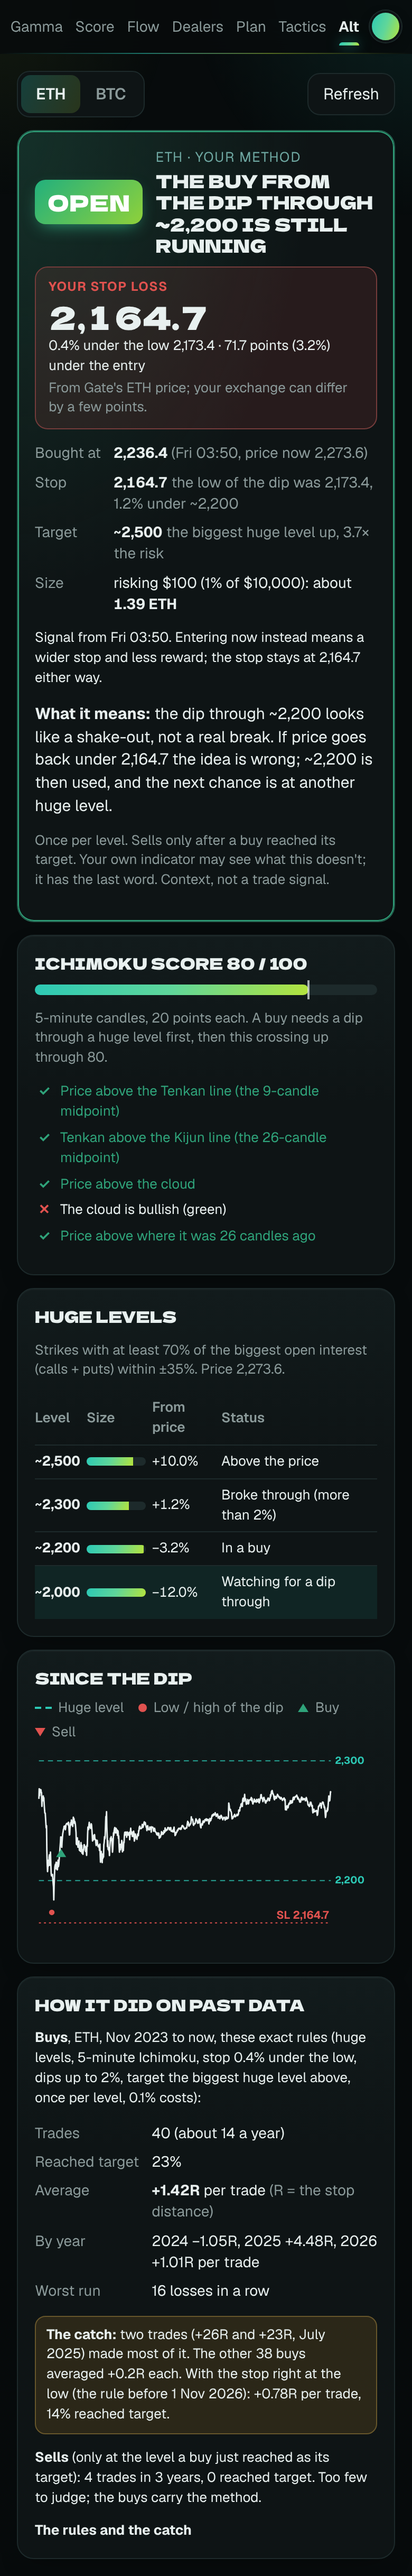
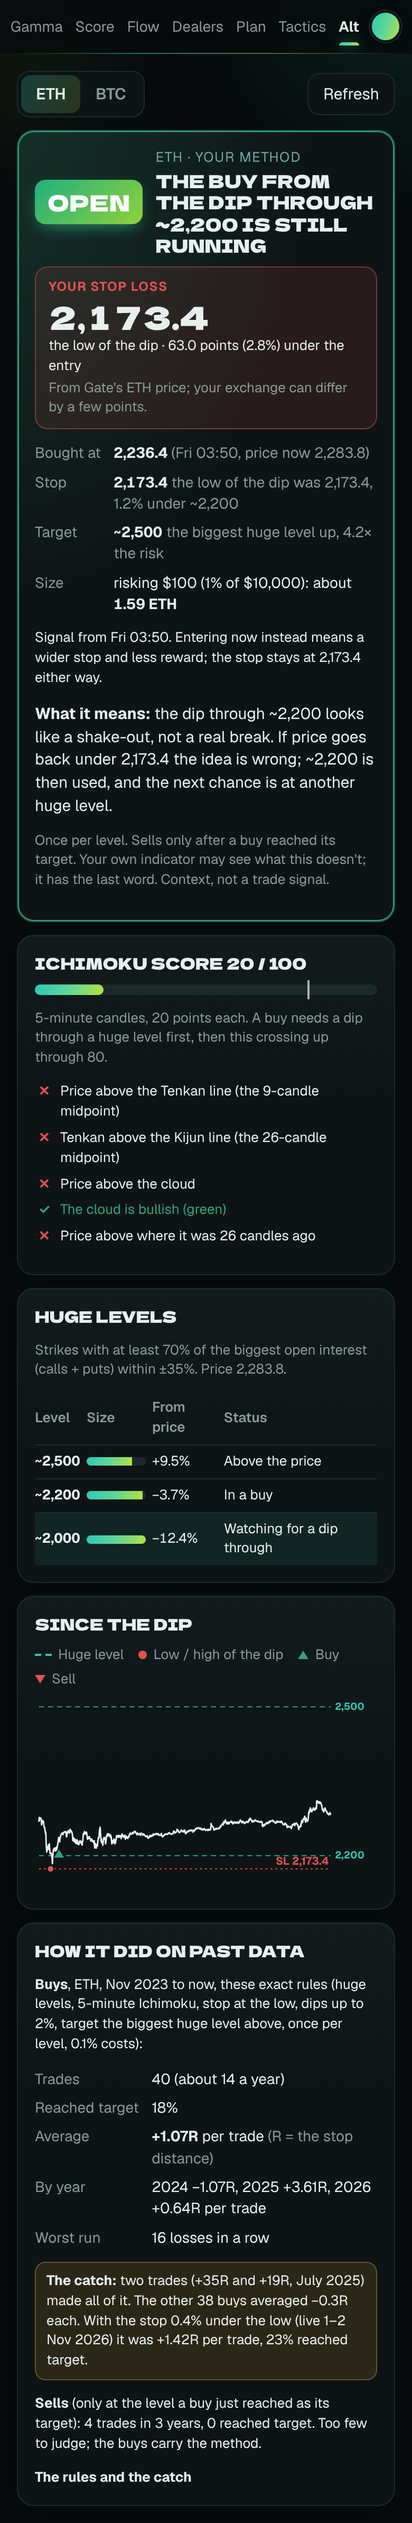
Alt Tactics: stop back at the low (owner's choice)
stopBufferPct 0: the stop is the lowest price of the dip again, worded "at
the low". Dips up to 2% stay. Results card updated (40 buys, 18% reached
target, +1.07R).

Claude-Session: https://claude.ai/code/session_012YFnXFppirLgbugNXbNf7H

diff --git a/tools/alt-tactics/view.js b/tools/alt-tactics/view.js
@@ -71,11 +71,15 @@ export function mount(el) {
   // The stop loss as a number to type into the order, worked out from live prices:
   // CFG.stopBufferPct under the low (buys) / over the high (sells). from = the entry,
   // or the price now while a setup is still waiting.
+  // Where the stop goes, in words: "at the low" or "0.4% under the low".
+  function slWhere(buy) {
+    return CFG.stopBufferPct > 0 ? CFG.stopBufferPct + '% ' + (buy ? 'under the low' : 'over the high') : (buy ? 'at the low' : 'at the high');
+  }
   function stopBox(stop, ext, buy, from, fromWord, note) {
     const dist = Math.abs(from - stop);
     return '<div class="al-sl"><div class="label">' + (note ? 'Stop loss so far' : 'Your stop loss') + '</div>' +
       '<div class="al-sl-num num">' + num(stop) + '</div>' +
-      '<div class="small">' + CFG.stopBufferPct + '% ' + (buy ? 'under the low ' : 'over the high ') + num(ext) + ' · ' +
+      '<div class="small">' + (CFG.stopBufferPct > 0 ? slWhere(buy) + ' ' + num(ext) : 'the ' + (buy ? 'low' : 'high') + ' of the ' + (buy ? 'dip' : 'spike')) + ' · ' +
         num(dist) + ' points (' + (dist / from * 100).toFixed(1) + '%) ' + (buy ? 'under ' : 'over ') + fromWord + '</div>' +
       (note ? '<div class="small muted">' + note + '</div>' : '') +
       '<div class="small muted">From Gate\'s ETH price; your exchange can differ by a few points.</div></div>';
@@ -116,7 +120,7 @@ export function mount(el) {
         '<dl class="pb-dl">' +
         '<dt>' + (buy ? 'Dipped' : 'Spiked') + '</dt><dd>' + hhmm(Math.max(w.t0, w.win ? w.win.at : 0)) + ', ' + (buy ? 'low' : 'high') + ' so far <b class="num">' + num(w.ext) + '</b> <span class="muted">(' + w.depth.toFixed(1) + '% ' + (buy ? 'under' : 'over') + ', a real break past ' + CFG.maxDepthPct + '%)</span></dd>' +
         '<dt>Waiting for</dt><dd>the ' + CFG.candleMinutes + '-minute Ichimoku score to ' + (buy ? 'reach ' + CFG.scoreBuy : 'drop to ' + CFG.scoreSell) + ' <span class="muted">(now ' + (now == null ? '–' : now) + ')</span></dd>' +
-        '<dt>Then</dt><dd>' + (buy ? 'buy, stop ' + CFG.stopBufferPct + '% under the low' : 'sell, stop ' + CFG.stopBufferPct + '% over the high') + ', target ' + (w.target ? px(w.target) : '<span class="muted">no huge level ' + (buy ? 'above' : 'below') + '</span>') + '</dd></dl>' +
+        '<dt>Then</dt><dd>' + (buy ? 'buy, stop ' + slWhere(true) : 'sell, stop ' + slWhere(false)) + ', target ' + (w.target ? px(w.target) : '<span class="muted">no huge level ' + (buy ? 'above' : 'below') + '</span>') + '</dd></dl>' +
         (buy ? '' : whyHere(w.win)) + (buy ? '' : unproven) +
         '<p class="verdict-action"><b>What it means:</b> the setup is live. Don\'t ' + (buy ? 'buy' : 'sell') + ' yet: the ' + (buy ? 'low can still go lower until buyers' : 'high can still go higher until sellers') + ' take over.</p>';
     } else {
@@ -225,23 +229,23 @@ export function mount(el) {
   function backtestHtml() {
     const b = CFG.backtest;
     return '<section class="card"><h3>How it did on past data</h3>' +
-      '<p class="small"><b>Buys</b>, ETH, ' + b.from + ' to now, these exact rules (huge levels, ' + CFG.candleMinutes + '-minute Ichimoku, stop ' + CFG.stopBufferPct + '% under the low, dips up to ' + CFG.maxDepthPct + '%, target the biggest huge level above, once per level, 0.1% costs):</p>' +
+      '<p class="small"><b>Buys</b>, ETH, ' + b.from + ' to now, these exact rules (huge levels, ' + CFG.candleMinutes + '-minute Ichimoku, stop ' + slWhere(true) + ', dips up to ' + CFG.maxDepthPct + '%, target the biggest huge level above, once per level, 0.1% costs):</p>' +
       '<dl class="pb-dl"><dt>Trades</dt><dd>' + b.trades + ' (about 14 a year)</dd>' +
       '<dt>Reached target</dt><dd>' + b.hitPct + '%</dd>' +
       '<dt>Average</dt><dd><b>+' + b.avgR.toFixed(2) + 'R</b> per trade <span class="muted">(R = the stop distance)</span></dd>' +
       '<dt>By year</dt><dd>' + esc(b.years) + '</dd>' +
       '<dt>Worst run</dt><dd>' + b.worstRun + ' losses in a row</dd></dl>' +
-      '<p class="small al-warn"><b>The catch:</b> two trades (' + esc(b.best2) + ') made most of it. The other ' + (b.trades - 2) + ' buys averaged ' +
+      '<p class="small al-warn"><b>The catch:</b> two trades (' + esc(b.best2) + ') made ' + (b.without2 < 0 ? 'all' : 'most') + ' of it. The other ' + (b.trades - 2) + ' buys averaged ' +
         (b.without2 >= 0 ? '+' : '−') + Math.abs(b.without2).toFixed(1) + 'R each. ' + esc(b.before) + '</p>' +
       '<p class="small"><b>Sells</b> (only at the level a buy just reached as its target): ' + b.sell.trades + ' trades in 3 years, ' + b.sell.won +
         ' reached target. Too few to judge; the buys carry the method.</p>' +
       '<details class="tc-fold"><summary class="small"><b>The rules and the catch</b></summary><ol class="tc-steps small">' +
         '<li>Levels: only the huge strikes, at least ' + Math.round(CFG.hugeShare * 100) + '% of the biggest open interest.</li>' +
         '<li>Price was above a level and trades below it (spikes count).</li>' +
-        '<li>Stop: ' + CFG.stopBufferPct + '% under the lowest price since the dip, so a quick wick just under the low doesn\'t stop you out. More than ' + CFG.maxDepthPct + '% under the level is a real breakdown: no trade.</li>' +
+        '<li>Stop: ' + (CFG.stopBufferPct > 0 ? CFG.stopBufferPct + '% under the lowest price since the dip, so a quick wick just under the low doesn\'t stop you out' : 'the lowest price since the dip') + '. More than ' + CFG.maxDepthPct + '% under the level is a real breakdown: no trade.</li>' +
         '<li>Buy when the ' + CFG.candleMinutes + '-minute Ichimoku score crosses up through ' + CFG.scoreBuy + ' (stand-in for your indicator).</li>' +
         '<li>Target: the biggest huge level above (most open contracts), not just the nearest. One trade per level; a used level comes back after price crosses another one.</li>' +
-        '<li>Sells only after a buy reached its target, at that level, within ' + CFG.afterWinHours + ' h: a spike over it, stop ' + CFG.stopBufferPct + '% over the high, score down through ' + CFG.scoreSell +
+        '<li>Sells only after a buy reached its target, at that level, within ' + CFG.afterWinHours + ' h: a spike over it, stop ' + slWhere(false) + ', score down through ' + CFG.scoreSell +
           ', target the biggest huge level below. When a sell reaches its target, that level is open for a buy again.</li>' +
         '<li>The catch: few trades, and the 10 best make most of the profit. Levels came from monthly snapshots, so yours may differ. Stops can fill worse in fast markets.</li>' +
       '</ol></details></section>';

diff --git a/tools/alt-tactics/config.js b/tools/alt-tactics/config.js
@@ -16,7 +16,7 @@ export const ALT_CONFIG = {
   // low, and turns. More than maxDepthPct past the level = a real breakdown; no
   // confirmation within windowHours = the setup lapses.
   maxDepthPct: 2,           // was 3; 2 tested better (owner OK'd 1 Nov 2026)
-  stopBufferPct: 0.4,       // stop 0.4% past the low / high, not right at it (owner: "let's do it 0.4%")
+  stopBufferPct: 0,         // stop right at the low / high (owner 2 Nov 2026: "set our SL as normal ... +0%"; 0.4% was live 1–2 Nov)
   windowHours: 48,
 
   // Confirmation: the Ichimoku score on candleMinutes candles crosses up through scoreBuy.
@@ -35,10 +35,10 @@ export const ALT_CONFIG = {
 
   // Backtest summary shown on the tab (huge 70%, 5-min score, once per level, 0.1% costs).
   // From test/alt-backtest.mjs (the tab's own code), target = biggest huge level.
-  // Stop 0.4% under the low, dips up to 2% (test/results/alt-best-2026-11-01.txt).
-  backtest: { from: 'Nov 2023', trades: 40, hitPct: 23, avgR: 1.42, worstRun: 16,
-    years: '2024 −1.05R, 2025 +4.48R, 2026 +1.01R per trade',
-    best2: '+26R and +23R, July 2025', without2: 0.20, // the other 38 buys, R per trade
-    before: 'With the stop right at the low (the rule before 1 Nov 2026): +0.78R per trade, 14% reached target.',
+  // Stop at the low, dips up to 2% (node test/alt-backtest.mjs, LIST=biggest, 2 Nov 2026).
+  backtest: { from: 'Nov 2023', trades: 40, hitPct: 18, avgR: 1.07, worstRun: 16,
+    years: '2024 −1.07R, 2025 +3.61R, 2026 +0.64R per trade',
+    best2: '+35R and +19R, July 2025', without2: -0.30, // the other 38 buys, R per trade
+    before: 'With the stop 0.4% under the low (live 1–2 Nov 2026) it was +1.42R per trade, 23% reached target.',
     sell: { trades: 4, won: 0 } }, // sells after a buy hit its target: 4, all lost
 };

diff --git a/index.html b/index.html
@@ -12,7 +12,7 @@
   <link rel="preconnect" href="https://fonts.googleapis.com">
   <link rel="preconnect" href="https://fonts.gstatic.com" crossorigin>
   <link rel="stylesheet" href="https://fonts.googleapis.com/css2?family=Dela+Gothic+One&family=Geist:wght@400..800&display=swap">
-  <link rel="stylesheet" href="assets/style.css?v=42">
+  <link rel="stylesheet" href="assets/style.css?v=43">
   <script>
     // Every module gets the same ?v= as the page, so a phone can never mix a new
     // file with an old cached one (that broke four tabs once, Nov 2026). The
@@ -75,6 +75,6 @@
     <div class="look-menu" id="look-menu" role="menu" hidden></div>
   </header>
   <main id="view"></main>
-  <script type="module" src="assets/app.js?v=42"></script>
+  <script type="module" src="assets/app.js?v=43"></script>
 </body>
 </html>

diff --git a/assets/app.js b/assets/app.js
@@ -2,7 +2,7 @@
 // Add a tool by adding a line here; routing is by URL hash (#fragility).
 // Tools are mounted on first visit and then kept alive, so switching is instant.
 // Bump V (and the ?v= in index.html) on each update so phones skip stale copies.
-const V = '?v=42';
+const V = '?v=43';
 const TOOLS = [
   { id: 'gamma', title: 'Gamma Detrite', short: 'Gamma', full: true, url: 'https://masked1987.github.io/gamma-detrite/', load: function () { return import('../tools/embed.js' + V); } },
   { id: 'fragility', title: 'Fragility', short: 'Score', load: function () { return import('../tools/fragility/view.js' + V); } },

diff --git a/CLAUDE.md b/CLAUDE.md
@@ -472,6 +472,12 @@ The owner's own method, built from the version that tested best
   far"). Note under the box: prices are Gate's, his exchange can differ a little.
   Owner on that: "it may be small difference but that's ok, I accept"; no need
   to match his exchange's prices.
+- **2 Nov 2026: stop back at the low.** Owner: "set our SL as normal, not +0.4%,
+  just set at SL +0%". `stopBufferPct: 0` (v=43); dips up to 2% kept (he only
+  asked about the stop). Card: 40 buys, 18% hit, +1.07R, worst run 16, 2024 −1.07R
+  / 2025 +3.61R / 2026 +0.64R, two July 2025 trades +35R / +19R made all of it
+  (the other 38 −0.3R), "with 0.4% under it was +1.42R". `slWhere()` words the
+  stop as "at the low" when the buffer is 0. Don't re-suggest the buffer unasked.
 - Ichimoku settings (asked "adjust how many candles is optimal for applying
   ichimoku"): `GRID=ichi node test/alt-backtest.mjs 36 .bt-cache`, results in
   `test/results/alt-ichimoku-2026-11-01.txt`. `ichimoku(c, p)` takes look-back
@@ -503,9 +509,10 @@ The owner's own method, built from the version that tested best
 
 The owner closed this conversation to start a new one. Pick up from here:
 
-- **State at the end of 1 Nov 2026 (second session), all live, v=42:** Alt
+- **State (2 Nov 2026), all live, v=43:** Alt
   Tactics = 5-min Ichimoku entry (he chose it over every Fibonacci / 4-candle
-  version), target the biggest huge level, stop 0.4% under the low, dips up to 2%,
+  version), target the biggest huge level, stop at the low (0.4% room removed
+  2 Nov at his request), dips up to 2%,
   sells only after a winning buy, once per level (after a stop: next level only),
   stop loss shown as a number (box + chart label). Owner: "for now done, we gonna
   work tomorrow more". Nothing open or half-built; ask what he wants next.
